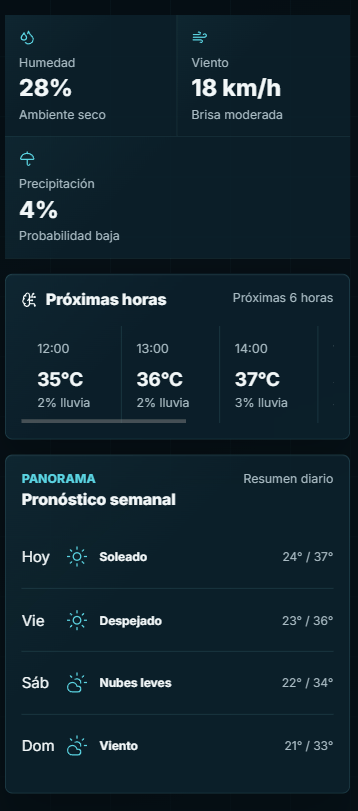
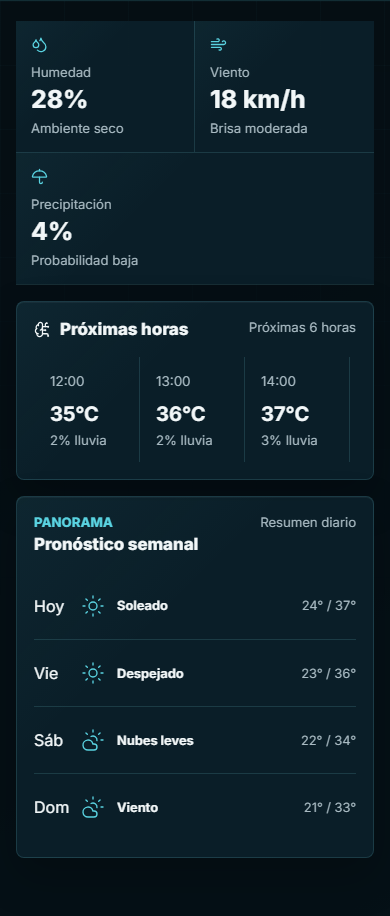
release: prepare AppWeb Clima v1.0.0

diff --git a/tests/releaseConfig.test.ts b/tests/releaseConfig.test.ts
@@ -1,0 +1,42 @@
+import { readFileSync } from "node:fs";
+import { describe, expect, it } from "vitest";
+
+type VercelHeader = {
+  key: string;
+  value: string;
+};
+
+type VercelConfig = {
+  headers?: Array<{
+    headers: VercelHeader[];
+    source: string;
+  }>;
+};
+
+describe("configuracion de entrega", () => {
+  it("mantiene alineada la version estable del paquete y su lockfile", () => {
+    const packageJson = JSON.parse(readFileSync("package.json", "utf8"));
+    const packageLock = JSON.parse(readFileSync("package-lock.json", "utf8"));
+
+    expect(packageJson.version).toBe("1.0.0");
+    expect(packageLock.version).toBe(packageJson.version);
+    expect(packageLock.packages[""].version).toBe(packageJson.version);
+  });
+
+  it("protege las paginas y funciones desplegadas por Vercel", () => {
+    const config = JSON.parse(
+      readFileSync("vercel.json", "utf8"),
+    ) as VercelConfig;
+    const globalRule = config.headers?.find((rule) => rule.source === "/(.*)");
+    const headers = new Map(
+      globalRule?.headers.map(({ key, value }) => [key, value]),
+    );
+
+    expect(headers.get("Content-Security-Policy")).toContain("default-src 'self'");
+    expect(headers.get("Content-Security-Policy")).toContain("frame-ancestors 'none'");
+    expect(headers.get("X-Content-Type-Options")).toBe("nosniff");
+    expect(headers.get("X-Frame-Options")).toBe("DENY");
+    expect(headers.get("Referrer-Policy")).toBe("no-referrer");
+    expect(headers.get("Permissions-Policy")).toContain("geolocation=(self)");
+  });
+});

diff --git a/vite.config.ts b/vite.config.ts
@@ -5,6 +5,10 @@ import { VitePWA } from "vite-plugin-pwa";
 // Configuracion principal de Vite para compilar React con TypeScript.
 export default defineConfig({
   build: {
+    // El globo se carga de forma diferida y tiene un presupuesto gzip propio
+    // en scripts/check-performance-budget.mjs. Este limite evita que Vite lo
+    // reporte como advertencia generica sin relajar el gate medible de CI.
+    chunkSizeWarningLimit: 2_000,
     rollupOptions: {
       output: {
         // Conserva Anime.js como recurso diferido identificable. La seccion

diff --git a/docs/06-entrega.md b/docs/06-entrega.md
@@ -1,0 +1,125 @@
+# Fase 6 - Entrega
+
+## Objetivo
+
+Cerrar AppWeb Clima como una entrega reproducible: codigo versionado, documentacion
+vigente, despliegue verificable, operacion basica y una ruta de recuperacion.
+
+Fecha de cierre: 2 de agosto de 2026.
+
+Version de entrega: `v1.0.0`.
+
+## Artefactos entregados
+
+- Repositorio: <https://github.com/MauricioMurcia293847/AppWeb-Clima>
+- Produccion: <https://app-web-clima-kappa.vercel.app/>
+- Integracion continua: `.github/workflows/ci.yml`
+- Documentacion principal: `README.md`
+- Plan de QA y evidencia: `docs/05-qa.md`
+- Licencia: `LICENSE` (MIT)
+- Historial de cambios: `CHANGELOG.md`
+- Configuracion reproducible: `.env.example`, `package-lock.json` y `vercel.json`
+
+## Definition of Done
+
+- [x] El README contiene descripcion, capturas, flujo, stack y estructura.
+- [x] El README documenta setup, variables, persistencia, roadmap y comandos.
+- [x] Las capturas se regeneran mediante `npm run docs:screenshots`.
+- [x] Existe una licencia MIT con autoria.
+- [x] `.env` y el vinculo local de Vercel estan excluidos de Git.
+- [x] El frontend y la API compilan desde una instalacion reproducible.
+- [x] CI valida lint, pruebas, build, rendimiento, PWA y navegadores.
+- [x] Vercel despliega automaticamente desde el branch `master`.
+- [x] Existen health check, logs estructurados y degradacion controlada.
+- [x] La aplicacion conserva funcionalidad sin Gemini y sin WebGL.
+
+## Evidencia de validacion
+
+| Comprobacion | Resultado |
+| --- | --- |
+| Instalacion limpia | `npm ci` completado |
+| Dependencias | `npm audit`: 0 vulnerabilidades |
+| ESLint | Aprobado |
+| Vitest | 60 de 60 pruebas aprobadas |
+| Playwright | 30 de 30 recorridos aprobados |
+| Build cliente y servidor | Aprobado sin advertencias de bundle |
+| PWA | Manifiesto, service worker e iconos aprobados |
+| README | 11 apartados y 4 capturas verificados |
+| Secretos | `.env` y `.vercel` ignorados; ningun secreto detectado |
+| Produccion | Health check `200` y capacidad Gemini activa |
+
+## Revision pre-release
+
+Conclusion: `NO_BLOCKER_FOUND`.
+
+No existia un tag anterior util, por lo que la revision tomo los ultimos cinco
+commits y los cambios de esta entrega. No se encontraron hallazgos P0-P2 en
+configuracion, secretos, persistencia, contratos, dependencias ni despliegue.
+
+Nota de mantenimiento: `vite-plugin-pwa` incluye transitivamente `glob@11.1.0`,
+que imprime un aviso de deprecacion durante `npm ci`; `npm audit` no reporta una
+vulnerabilidad activa. Debe actualizarse cuando Workbox publique una cadena
+compatible, sin forzar manualmente una version interna.
+
+## Operacion
+
+### Verificacion rapida
+
+1. Abrir la URL de produccion.
+2. Consultar `/api/health` y confirmar `ok: true`.
+3. Buscar una ciudad y comprobar que cambia el encabezado meteorologico.
+4. Confirmar el movimiento del globo o la etiqueta `Modo compatible animado`.
+5. Revisar el asistente: Gemini cuando esta disponible o consejo local identificado.
+6. Consultar GitHub Actions y confirmar el ultimo workflow en verde.
+
+### Variables de produccion
+
+| Variable | Uso | Secreta |
+| --- | --- | --- |
+| `GEMINI_API_KEY` | Activa recomendaciones generadas por Gemini | Si |
+| `GEMINI_MODEL` | Permite seleccionar el modelo habilitado | No |
+
+No existe una base de datos ni migraciones. Favoritos, recientes y preferencia de
+movimiento permanecen exclusivamente en el navegador del usuario.
+
+## Observabilidad
+
+- `/api/health` publica salud y capacidades sin revelar secretos.
+- El backend emite logs JSON con ruta normalizada, estado, duracion y `requestId`.
+- Las respuestas externas tienen timeout, validacion y degradacion controlada.
+- GitHub Actions conserva el reporte de Playwright cuando una ejecucion falla.
+- Vercel conserva el historial de deployments para inspeccion y recuperacion.
+
+## Rollback
+
+### Condiciones
+
+- El health check deja de responder correctamente.
+- La busqueda principal falla de forma generalizada.
+- Aparece una regresion critica de privacidad, seguridad o accesibilidad.
+- El nuevo deployment genera errores que no estaban en la version anterior.
+
+### Procedimiento
+
+1. Abrir **Vercel > Project > Deployments**.
+2. Seleccionar el ultimo deployment estable.
+3. Usar **Promote to Production** para recuperar esa version sin reescribir Git.
+4. Verificar `/api/health`, una busqueda y el asistente.
+5. Crear un issue con causa, impacto y evidencia antes de preparar la correccion.
+
+Como alternativa versionada, crear un commit con `git revert <commit>` y enviarlo
+a `master`; nunca usar `git reset --hard` ni `push --force` para un rollback normal.
+
+## Limitaciones conocidas
+
+- Three.js requiere WebGL; sin el se usa un modo mundial 2D animado.
+- Gemini es opcional y depende de cuota, modelo y disponibilidad del proveedor.
+- El rate limit y las caches viven por instancia serverless, no son distribuidos.
+- Los datos meteorologicos son orientativos y no sustituyen alertas oficiales.
+
+## Cierre
+
+La version se considera entregable cuando los checks locales, GitHub Actions,
+Vercel y el recorrido critico de produccion aportan evidencia satisfactoria. Los
+cambios futuros deben abrir una nueva iteracion de producto, desarrollo y QA en
+lugar de modificar silenciosamente este cierre.

diff --git a/README.md b/README.md
@@ -4,14 +4,37 @@
 [![Demo](https://img.shields.io/badge/demo-Vercel-39c4d6)](https://app-web-clima-kappa.vercel.app/)
 [![License: MIT](https://img.shields.io/badge/license-MIT-68e4a4.svg)](LICENSE)
 
+## Descripción
+
 Dashboard meteorológico visual, accesible y responsive. Permite consultar ciudades, coordenadas o la ubicación del dispositivo; explora el planeta con un globo 3D, compara dos modelos de Open-Meteo y ofrece recomendaciones mediante Gemini o una guía local degradable.
 
 **Demo:** [app-web-clima-kappa.vercel.app](https://app-web-clima-kappa.vercel.app/)
 
+## Contenido
+
+- [Características](#características)
+- [Capturas](#capturas)
+- [Flujo de usuario](#flujo-de-usuario)
+- [Arquitectura](#arquitectura)
+- [Stack técnico](#stack-técnico)
+- [Estructura de carpetas](#estructura-de-carpetas)
+- [Setup local](#setup-local)
+- [Variables de entorno](#variables-de-entorno)
+- [Modelo de base de datos](#modelo-de-base-de-datos)
+- [API](#api)
+- [Comandos](#comandos)
+- [Pruebas e integración continua](#pruebas-e-integración-continua)
+- [Despliegue en Vercel](#despliegue-en-vercel)
+- [Seguridad y privacidad](#seguridad-privacidad-y-observabilidad)
+- [Roadmap](#roadmap)
+- [Documentación](#documentación)
+- [Créditos](#créditos)
+- [Licencia](#licencia)
+
 ## Características
 
 - Clima actual y pronóstico por ciudad, coordenadas o geolocalización.
-- Globo 3D interactivo con fallback estático cuando WebGL no está disponible.
+- Globo 3D interactivo con modo compatible animado cuando WebGL no está disponible.
 - Comparación honesta entre Open-Meteo Best Match y Open-Meteo GFS.
 - Asistente meteorológico animado con Gemini opcional y respaldo determinista.
 - Estados diferenciados para datos en vivo, ejemplo, respaldo, rate limit y error.
@@ -36,7 +59,7 @@ Dashboard meteorológico visual, accesible y responsive. Permite consultar ciuda
   <img src="docs/screenshots/appweb-clima-mobile-assistant.png" alt="Comparación y asistente meteorológico de AppWeb Clima en móvil" width="31%">
 </p>
 
-Las capturas se generan desde la aplicación real con:
+Las cuatro capturas se generan desde la aplicación real y se mantienen reproducibles con:
 
 ```bash
 npm run docs:screenshots
@@ -285,7 +308,7 @@ AppWeb Clima ofrece información orientativa. Para alertas y condiciones severas
 
 ## Roadmap
 
-### Completado en v2
+### Completado en v1.0.0
 
 - [x] Dashboard oscuro responsive y accesible.
 - [x] Globo 3D con fallback.
@@ -302,7 +325,7 @@ AppWeb Clima ofrece información orientativa. Para alertas y condiciones severas
 - [ ] Capa día/noche real sobre el globo.
 - [ ] Alertas oficiales, solo mediante una fuente autorizada.
 
-No están planeados para v2: cuentas, base de datos, chat abierto, publicidad o sincronización entre dispositivos.
+No están planeados para `v1.0.0`: cuentas, base de datos, chat abierto, publicidad o sincronización entre dispositivos.
 
 ## Documentación
 
@@ -311,7 +334,10 @@ No están planeados para v2: cuentas, base de datos, chat abierto, publicidad o 
 - [Flujo de la app](docs/03-flujo-app.md)
 - [Diseño UI/UX](docs/04-brief-diseno.md)
 - [Backend y persistencia](docs/05-backend-mer-bd.md)
+- [Validación de QA](docs/05-qa.md)
 - [Plan de implementación](docs/06-plan-implementacion.md)
+- [Entrega y operación](docs/06-entrega.md)
+- [Historial de cambios](CHANGELOG.md)
 
 ## Créditos
 

diff --git a/CHANGELOG.md b/CHANGELOG.md
@@ -1,0 +1,20 @@
+# Changelog
+
+Los cambios relevantes de AppWeb Clima se documentan en este archivo. El
+proyecto sigue versionado semantico.
+
+## [1.0.0] - 2026-08-02
+
+### Incluye
+
+- Dashboard meteorologico oscuro, responsive y accesible.
+- Busqueda por ciudad, coordenadas, geolocalizacion y globo mundial.
+- Pronostico horario y semanal con comparacion Best Match frente a GFS.
+- Asistente animado con Gemini opcional y recomendaciones locales de respaldo.
+- Globo Three.js con modo compatible animado cuando WebGL no esta disponible.
+- Favoritos, recientes, borrado selectivo y preferencia de movimiento.
+- API Express local y funciones serverless para Vercel.
+- PWA, CI, pruebas unitarias, integracion, E2E y regresion visual.
+- Documentacion de producto, arquitectura, diseno, QA, operacion y rollback.
+
+[1.0.0]: https://github.com/MauricioMurcia293847/AppWeb-Clima/releases/tag/v1.0.0
